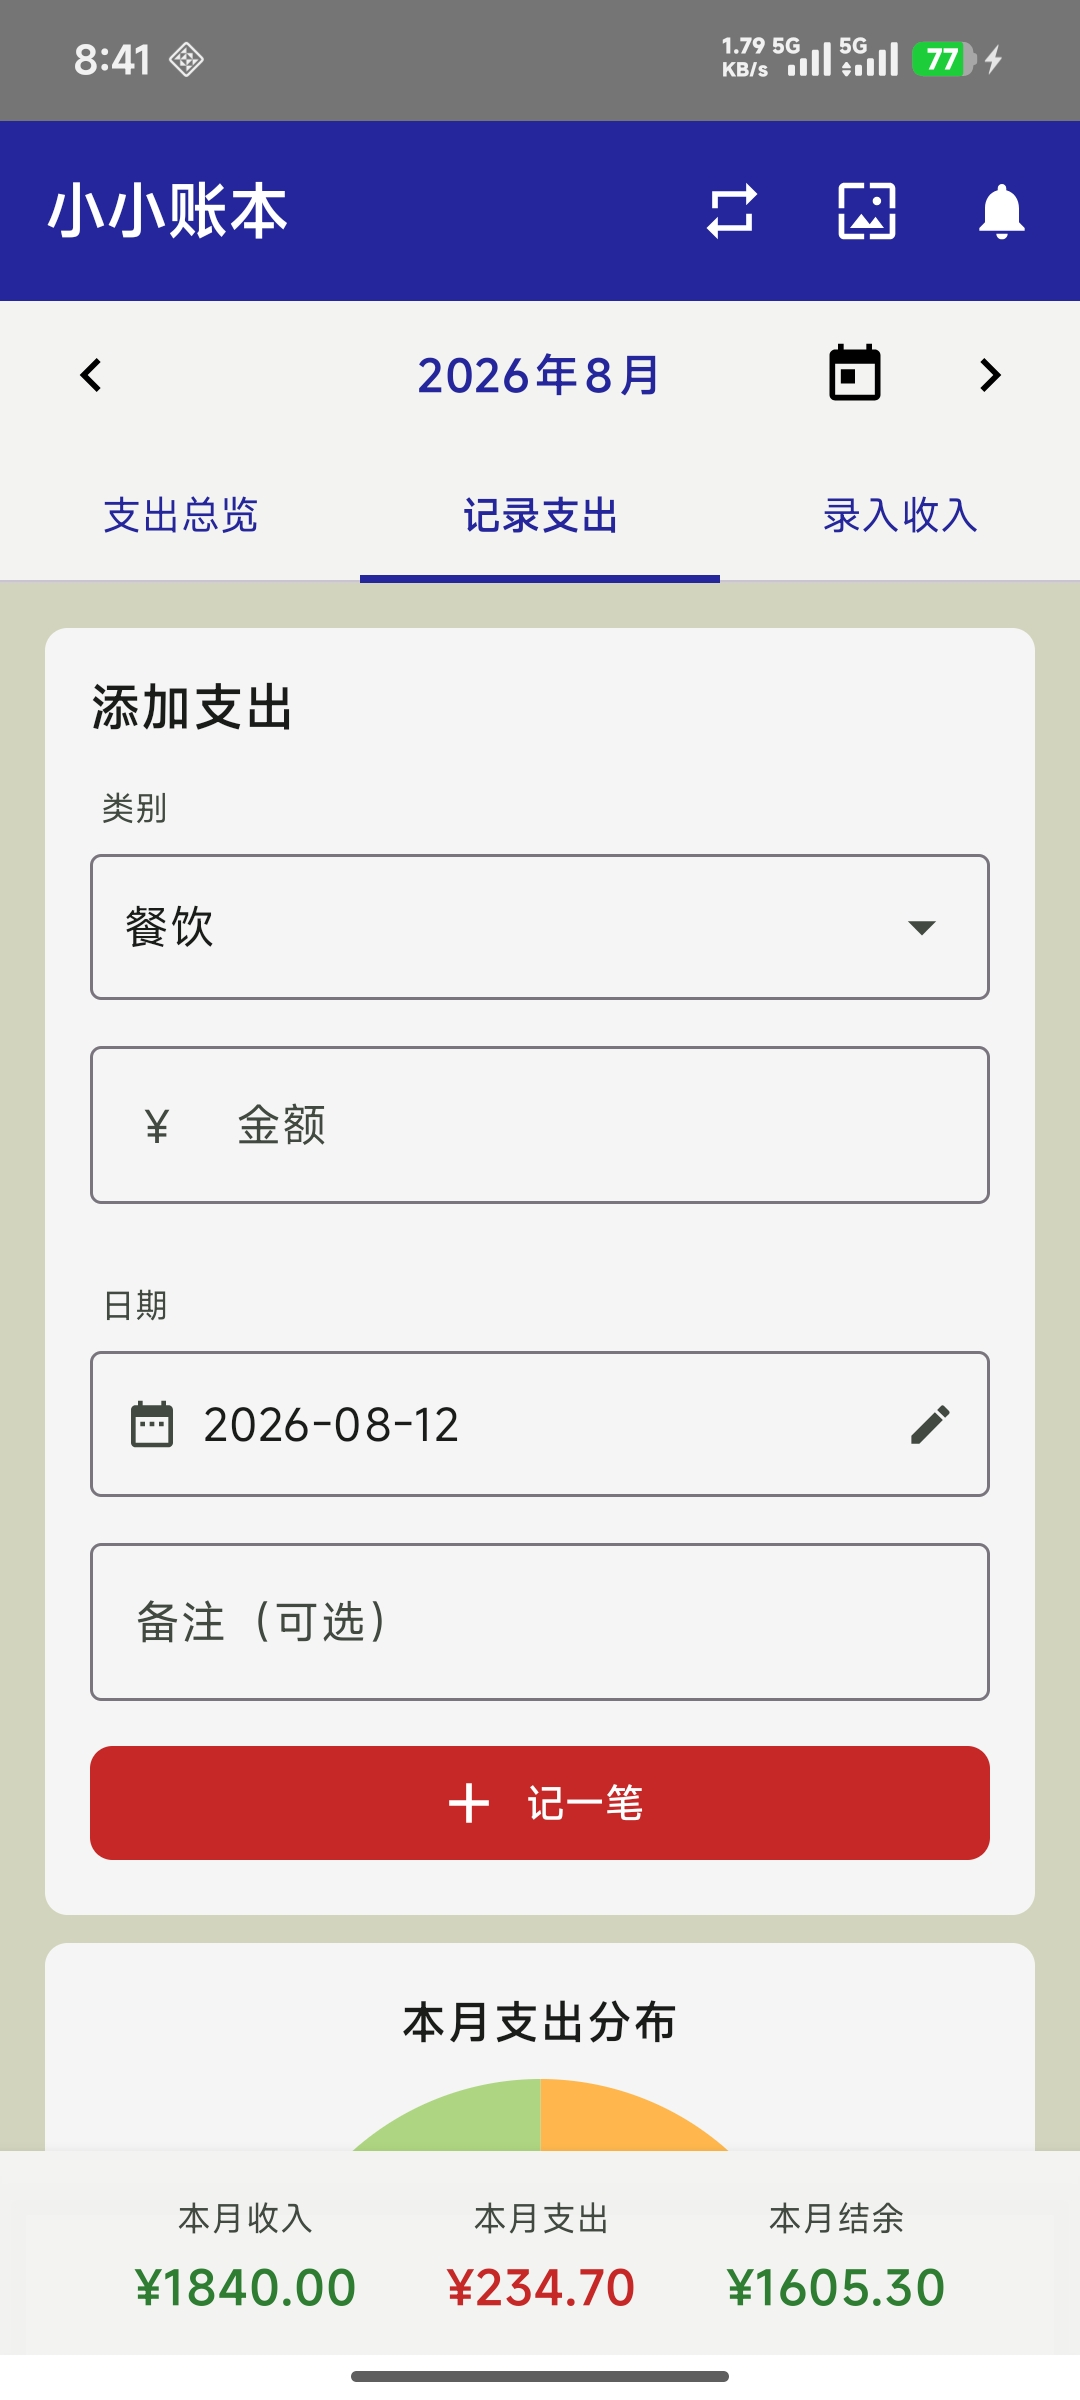
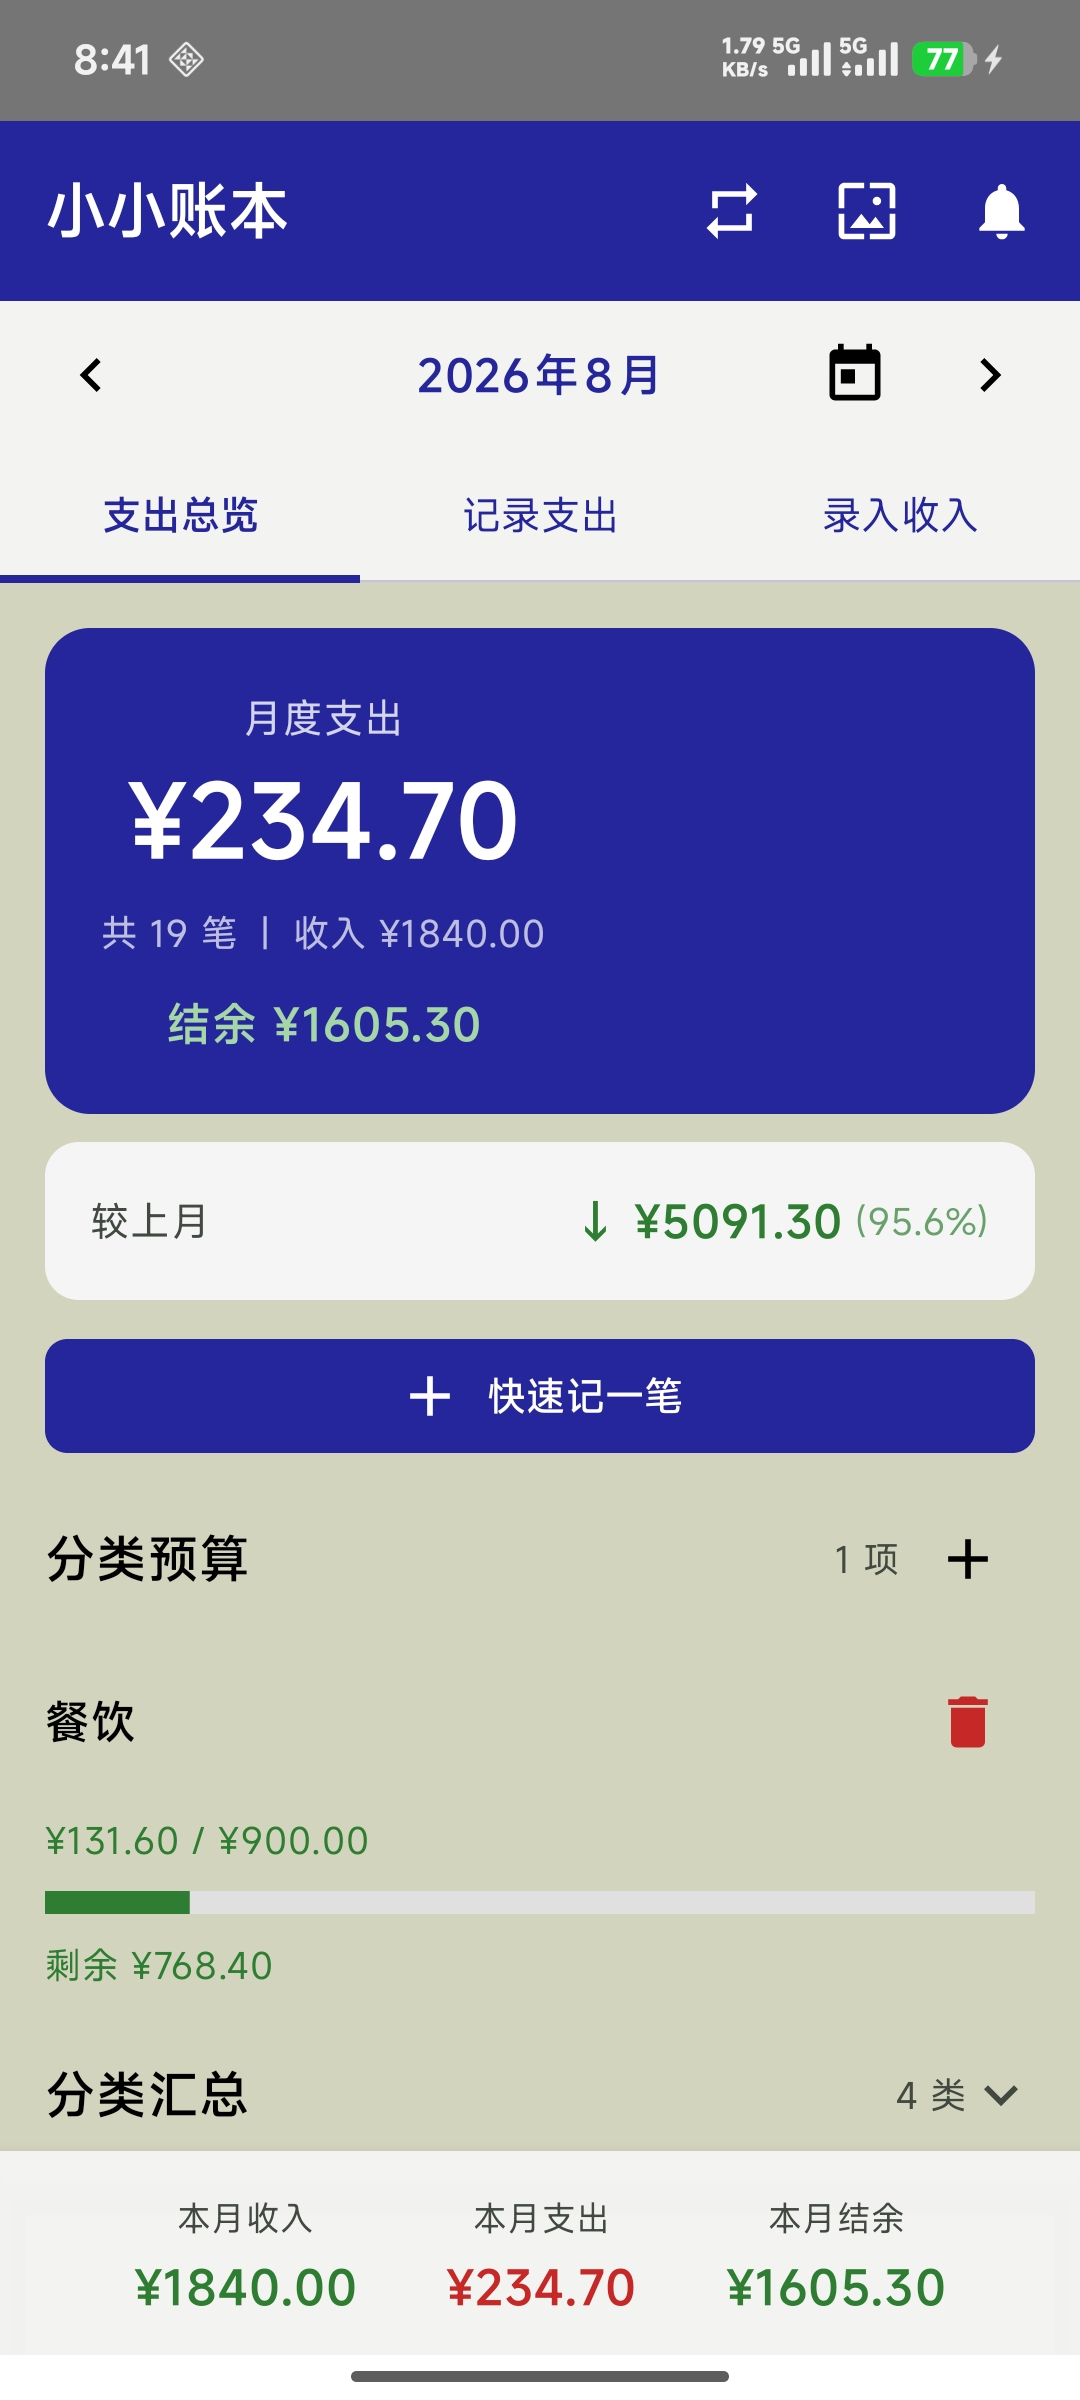
docs: 更新功能说明与截图位置

diff --git a/README.md b/README.md
@@ -1,61 +1,66 @@
 # 小小账本
 
-一款使用 Kotlin 与 Jetpack Compose 开发的本地记账应用，支持收支记录、月度统计、分类预算、周期记账、提醒设置与个性化外观。项目以 Room 作为本地数据源，通过 Repository、ViewModel 和 Flow 驱动界面更新。
+一款使用 Kotlin 与 Jetpack Compose 开发的本地记账应用，支持收支记录、月度统计、单日查询、分类预算、周期记账、提醒设置与个性化外观。项目以 Room 作为本地数据源，通过 Repository、ViewModel 和 Flow 驱动界面更新。
 
 ## 功能概览
 
 - 记录、编辑和删除支出与收入
 - 按月份查看账单、收入、支出和结余
+- 查询指定日期的收入、支出、结余与账单明细
 - 按分类汇总支出并显示预算进度
 - 设置月度分类预算和超支状态
 - 创建每周或每月自动执行的周期账目
 - 删除账目后通过 Snackbar 撤销
 - 设置中午和晚间记账提醒
 - 自定义主题色、背景色和裁剪后的背景图片
+- 通过“更多功能”入口统一管理单日查询、周期记账、提醒和外观设置
 - 支持 Room 数据库版本迁移
 
 ## 应用截图
 
-| 月度总览 | 账单记录 | 收入记录 |
+| 月度总览 | 记录支出 | 录入收入 |
 | --- | --- | --- |
-| ![月度总览](imgForREADME/monthly-summary.png) | ![账单记录](imgForREADME/expense-entry.png) | ![收入记录](imgForREADME/income-entry.png) |
+| ![月度总览](imgForREADME/monthly-summary.png) | ![记录支出](imgForREADME/expense-entry.png) | ![录入收入](imgForREADME/income-entry.png) |
+| 查看当月收支、结余和分类情况 | 记录支出并管理支出明细 | 记录收入并管理收入明细 |
 
-| 分类预算 | 周期记账 | 外观设置 |
+| 分类预算 | 更多功能 | 单日账单查询 |
 | --- | --- | --- |
-| ![分类预算](imgForREADME/category-budget.png) | ![周期记账](imgForREADME/recurring-entry.png) | ![外观设置](imgForREADME/appearance-settings.png) |
+| ![分类预算](imgForREADME/category-budget.png) | ![更多功能](imgForREADME/more-features.png) | ![单日账单查询](imgForREADME/daily-ledger.png) |
+| 设置各分类的月度预算与超支状态 | 集中进入查询、周期记账、提醒和外观设置 | 按日期查看收入、支出、结余和账单明细 |
+
+| 周期记账 | 记账提醒 | 外观设置 |
+| --- | --- | --- |
+| ![周期记账](imgForREADME/recurring-entry.png) | ![记账提醒](imgForREADME/reminder-settings.png) | ![外观设置](imgForREADME/appearance-settings.png) |
+| 创建每周或每月自动执行的账目 | 设置每日记账提醒时间 | 自定义主题色、背景色和背景图片 |
 
 ## 技术栈
 
 - Kotlin、Coroutines、Flow、StateFlow、SharedFlow
-- Jetpack Compose、Material 3、ViewModel
+- Jetpack Compose、Material 3、Navigation 3、ViewModel
 - Room、Migration、DataStore Preferences
 - WorkManager、系统通知与定时提醒
+- AndroidX SplashScreen
 - Android Photo Picker 与图片裁剪
 - JUnit、Room 仪器测试
 
 ## 项目架构
 
 ```text
-Compose UI
-    │ 用户事件
+Compose UI / Navigation 3
+    │ 用户事件与页面导航
     ▼
 ViewModel
-    │ 业务调用
+    │ 业务调用与状态聚合
     ▼
 LedgerRepository
-    ├── Room / DAO
-    ├── DataStore / SharedPreferences
-    └── WorkManager / ReminderScheduler
+    │
+    ▼
+Room / DAO / Flow
 
-Room Flow
-    ▼
-Repository
-    ▼
-StateFlow / SharedFlow
-    ▼
-collectAsStateWithLifecycle
-    ▼
-Compose 重组
+AppearancePreferences ── DataStore Preferences
+BackgroundPreferences ── SharedPreferences / 本地图片
+RecurringWorkScheduler ── WorkManager
+ReminderScheduler ─────── 系统通知与定时任务
 ```
 
 主要目录：
@@ -66,11 +71,19 @@ app/src/main/java/com/example/billkeeper/
 ├── data/          # Entity、DAO、Database、Repository 和数据模型
 ├── domain/        # 周期账目等领域规则
 ├── notification/  # 通知、提醒计划与广播接收器
-├── ui/            # Compose 页面、组件和主题
+├── ui/            # Compose 页面、Navigation 3、组件和主题
 └── viewmodel/     # UI 状态、Flow 组合与用户操作
 ```
 
 ## 核心实现
+
+### Navigation 3 与更多功能
+
+应用使用 Navigation 3 的 `NavDisplay`、`rememberNavBackStack` 和类型安全目的地管理页面。主页通过“更多功能”进入二级页面，再分别进入单日账单查询、周期记账、记账提醒和外观设置，顶部返回按钮与系统返回手势共用同一返回栈。
+
+### 单日账单查询
+
+用户可以选择日期或切换前后一天，查看当天收入、支出、结余和按时间倒序排列的收支明细。查询使用本地时区中“当天零点至次日零点”的左闭右开区间，能够正确处理夏令时和日期边界。
 
 ### 月度查询与状态聚合
 
@@ -98,6 +111,7 @@ JVM 单元测试位于 `app/src/test/`，覆盖：
 
 - 金额模型和表单校验
 - 月份范围与时区转换
+- 单日查询的本地午夜与夏令时边界
 - 周期日期规则
 - 提醒调度规则
 
@@ -124,7 +138,7 @@ Android 仪器测试位于 `app/src/androidTest/`，覆盖：
 
 - Android Studio
 - JDK 17
-- Android SDK 34
+- Android SDK 36.1（`compileSdk 36`、`compileSdkMinor 1`）
 - 最低 Android 版本：Android 8.0（API 26）
 
 使用 Android Studio 打开项目根目录，完成 Gradle Sync 后运行 `app` 配置。也可以在项目根目录执行：
@@ -141,9 +155,8 @@ app/build/outputs/apk/debug/app-debug.apk
 
 ## 后续计划
 
-1. 使用navigation3：把月/周自动更新账单功能和主题/背景自定义功能以及闹钟功能放在一个二级页面入口进去各自为一个选项做成三级页面，在该二级页面还会增加一个查询单日账单的功能
-2. 新增自我获取更新功能
-3. 后续需要改接口为下面这样
-   LedgerRepository 接口
-   RoomLedgerRepository 真实实现
-   FakeLedgerRepository 测试实现
+1. 新增应用内版本检查与更新提示
+2. 将数据仓库拆分为接口和不同实现
+   - `LedgerRepository`：接口
+   - `RoomLedgerRepository`：Room 真实实现
+   - `FakeLedgerRepository`：测试实现
